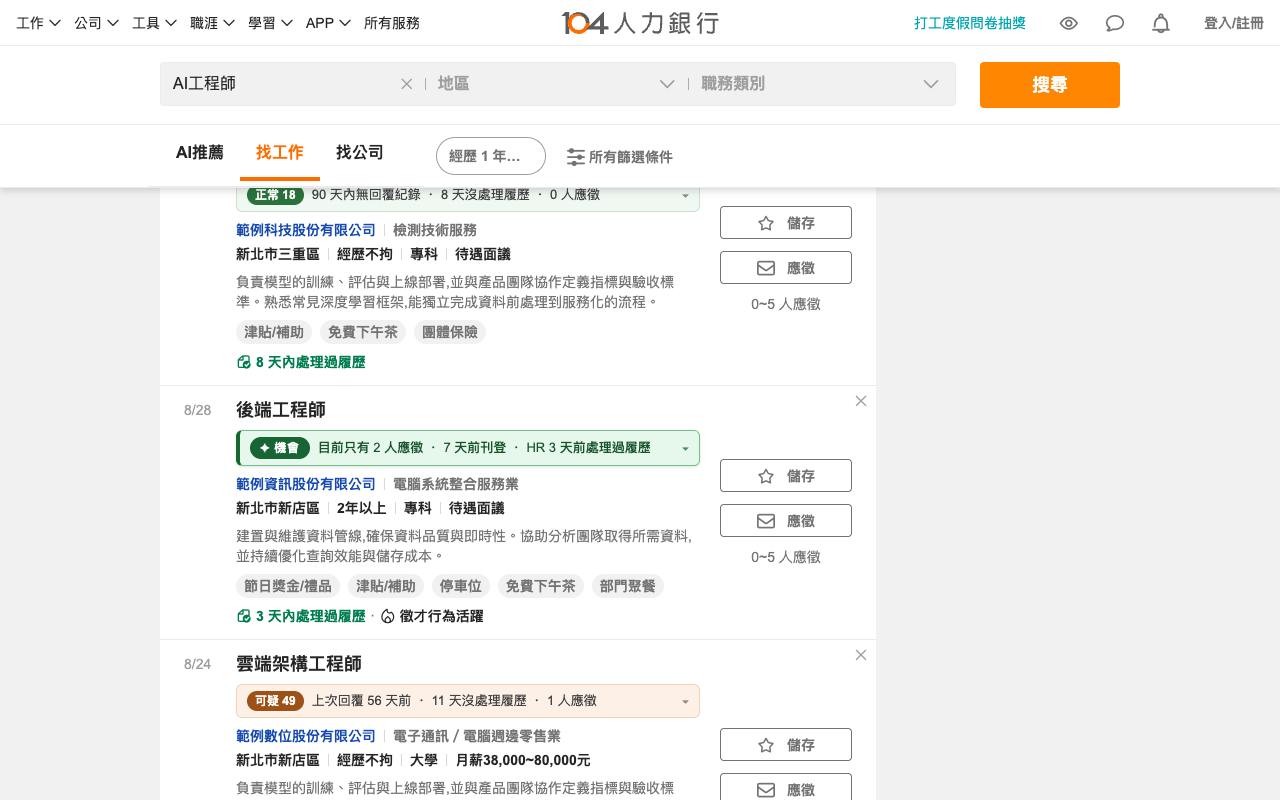
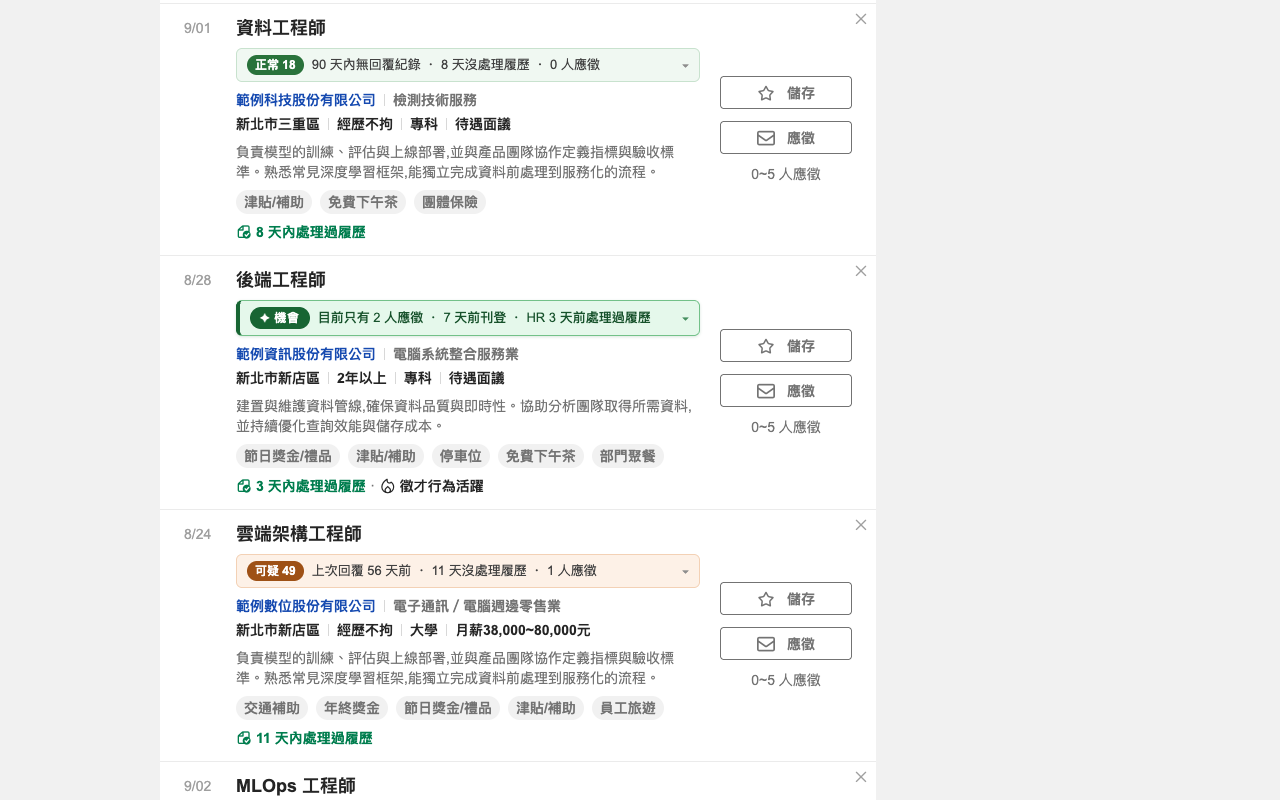
商店截圖移除 104 的品牌元素
原本的截圖連 104 的頂部導覽列一起拍進去了,裡面有 104 的商標、搜尋列和分頁。
把別人的商標放進自己的商店宣傳圖會提高商標爭議風險,而這個專案從命名加上
「非官方」開始,一路都在避開這件事,截圖不該是例外。

改成拍攝前先隱藏 header、footer 與所有 logo 圖再截,畫面只剩職缺卡片與徽章 ——
本來就是要展示的東西,少了導覽列還多露一張卡。

LISTING.md 把這兩項處理(不入鏡 104 品牌、不指認真實公司)寫成重拍時的規則。

diff --git a/store/LISTING.md b/store/LISTING.md
@@ -190,9 +190,14 @@ https://fansia.github.io/104-ghost-job-detector/privacy.html
 
 三張都是 1280×800、24 位元 RGB、無 alpha,可直接上傳。
 
-**截圖裡的公司名稱、職稱、職務描述與含地標的福利標籤都已置換成「範例◯◯股份有限公司」等佔位內容。**
-徽章上的數字是真實輸出,但不會把任何一家真實公司跟「可疑」標籤綁在一起公開展示。
-日後重拍務必沿用同樣的處理。
+截圖時做了兩件必要的處理,**日後重拍務必沿用**:
+
+1. **不入鏡 104 的品牌元素。** 頂部導覽列、104 商標、搜尋列、頁尾與所有 logo 圖都先隱藏
+   再拍。把 104 的商標放進自己的商店宣傳圖會提高商標爭議風險,而截圖要展示的是徽章,
+   不是 104 的介面。
+2. **不指認任何真實公司。** 公司名稱、職稱、職務描述,以及含地標門牌的福利標籤
+   (例如「距捷運◯◯站約 220 公尺」)全部置換成「範例◯◯股份有限公司」等佔位內容。
+   徽章上的數字是真實輸出,但不會把哪一家真實公司跟「可疑」標籤綁在一起公開展示。
 
 商店列表大圖與兩張宣傳圖塊不受影響,不必重做。
 
